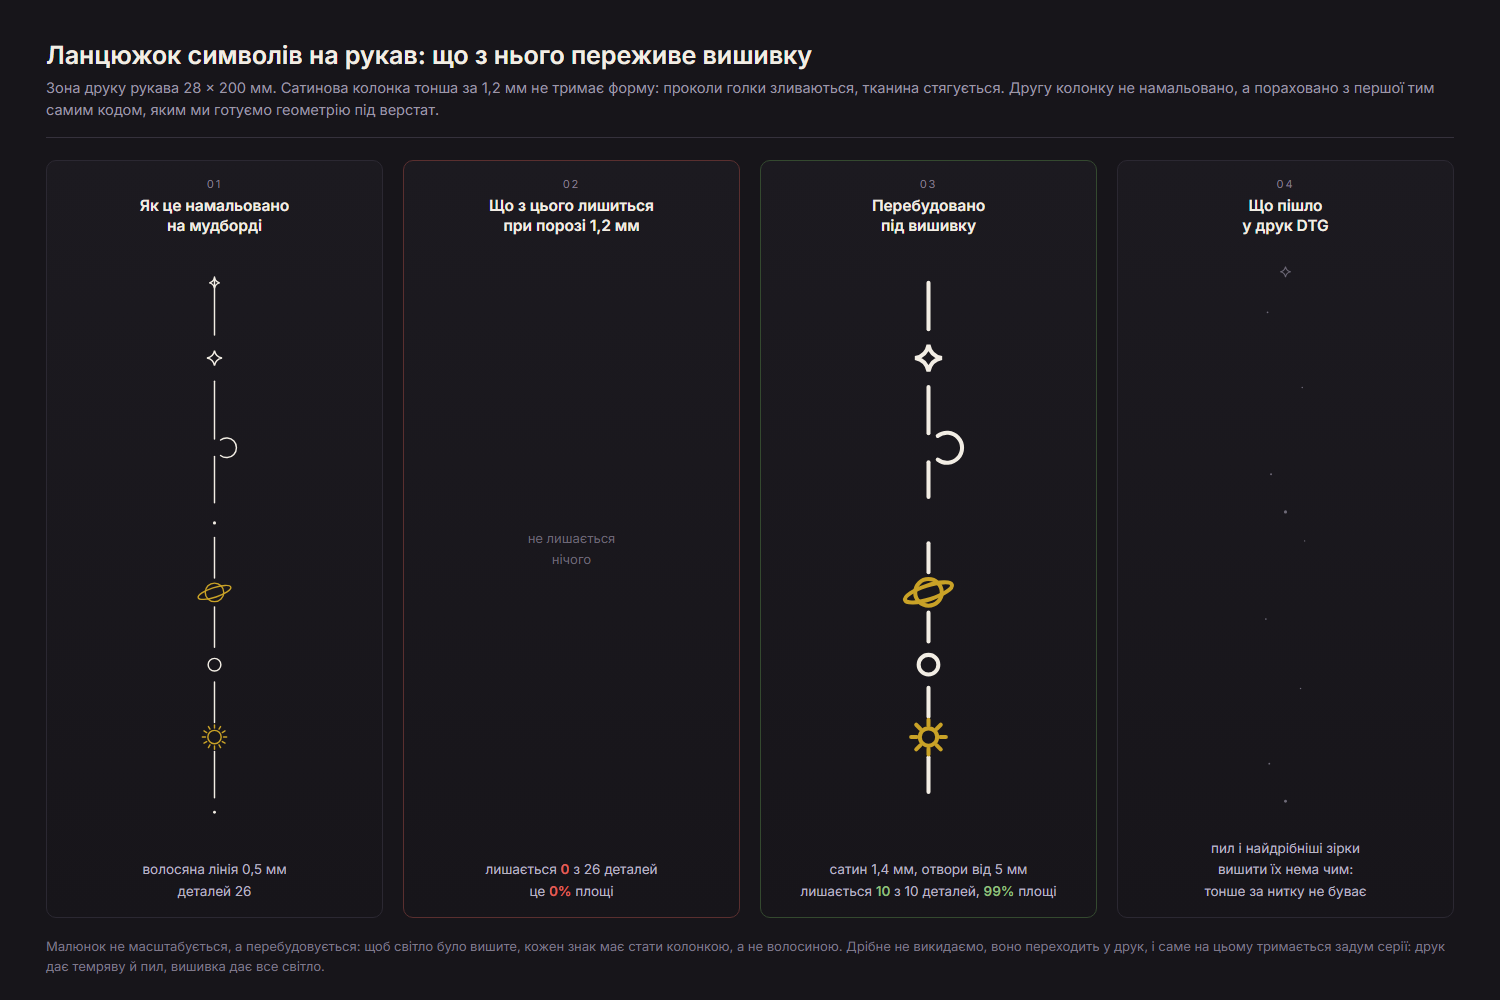
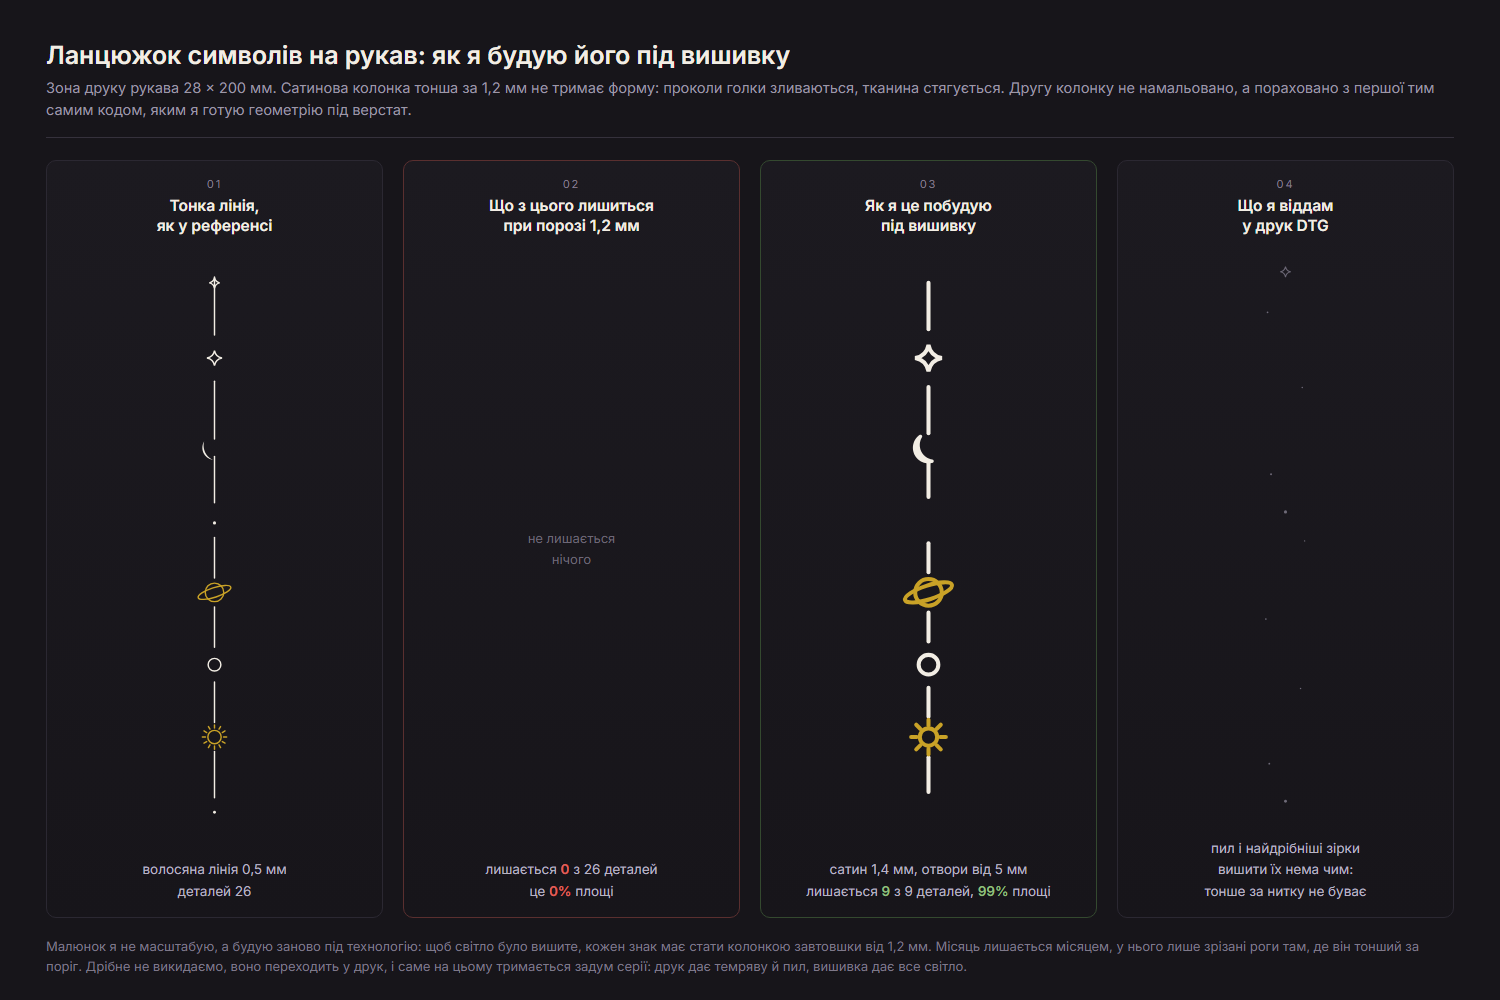
Update space-merch-prints copy and images
Refine copy in s/space-merch-prints/index.html: update <title>, H1, note paragraph, and image alt text to the new phrasing 'Космічний мерч: як я перекладу настрій у виріб'. Replace binary assets sheet-left.png and sheet-right.png with updated images.

diff --git a/s/space-merch-prints/index.html b/s/space-merch-prints/index.html
@@ -3,7 +3,7 @@
 <head>
 <meta charset="utf-8">
 <meta name="viewport" content="width=device-width, initial-scale=1">
-<title>Космічний мерч: що з мудборду доїде до виробу</title>
+<title>Космічний мерч: як я перекладу настрій у виріб</title>
 <style>
   :root { color-scheme: light dark; }
   * { box-sizing: border-box; }
@@ -50,11 +50,11 @@
 </head>
 <body>
   <div class="wrap">
-    <h1>Космічний мерч: що з мудборду доїде до виробу</h1>
-    <p class="note">Два аркуші до проєкту #1646976. Перший: п&#x27;ять місць, де рендер і справжній виріб розходяться. Другий: наш власний ланцюжок на рукав і поріг вишивки, порахований кодом.</p>
+    <h1>Космічний мерч: як я перекладу настрій у виріб</h1>
+    <p class="note">Два аркуші до проєкту #1646976. Перший: п&#x27;ять рішень, які ухвалюються до першого пікселя. Другий: ланцюжок на рукав, побудований під вишивку, з порогом, порахованим кодом.</p>
 
-    <figure><img src="sheet-left.png" alt="Космічний мерч: що з мудборду доїде до виробу"></figure>
-    <figure><img src="sheet-right.png" alt="Космічний мерч: що з мудборду доїде до виробу"></figure>
+    <figure><img src="sheet-left.png" alt="Космічний мерч: як я перекладу настрій у виріб"></figure>
+    <figure><img src="sheet-right.png" alt="Космічний мерч: як я перекладу настрій у виріб"></figure>
     <footer>Робочий ескіз. Палітра, пропорції та деталі налаштовуються під задачу.</footer>
   </div>
 </body>
